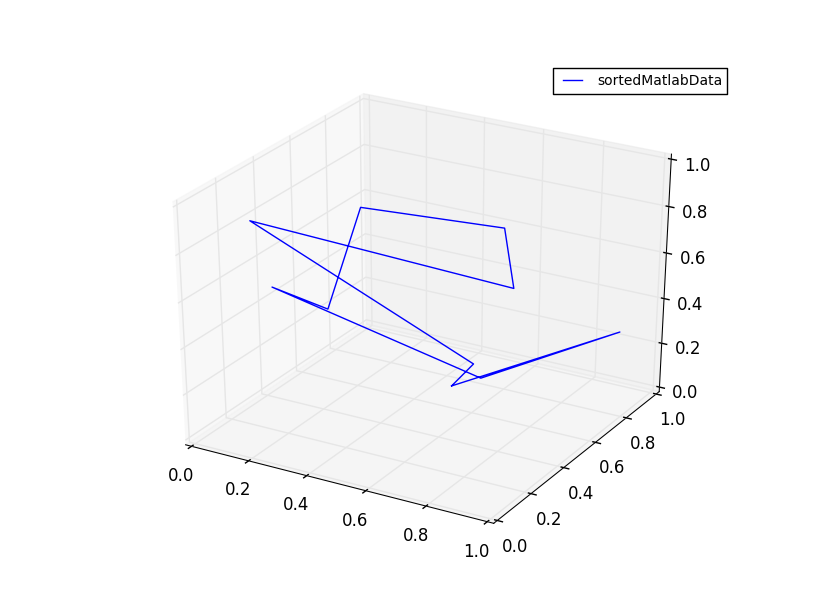
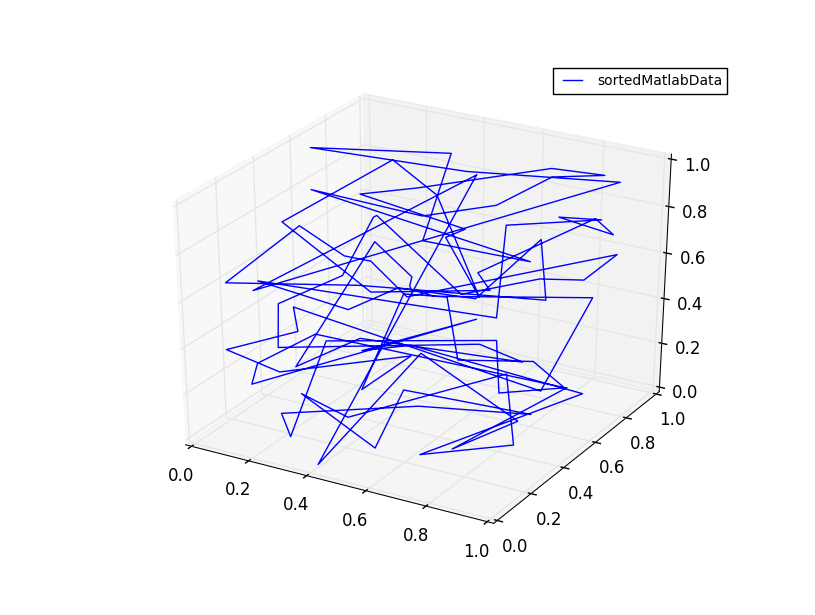
Exact TSP defines start point

Changed region(s): [[0.2761, 0.2163, 0.7669, 0.7415], [0.7362, 0.5252, 0.7669, 0.5561]]

diff --git a/greedyTSP.py b/greedyTSP.py
@@ -1,0 +1,123 @@
+################################################################################
+# src:github.com/dmishin/tsp-solver/blob/master/src/greedy_tsp.py
+# A simple algorithm for solving the Travelling Salesman Problem
+# Finds a suboptimal solution
+################################################################################
+
+def optimize_solution( distances, connections ):
+    """Tries to optimize solution, found by the greedy algorithm"""
+    N = len(connections)
+    path = restore_path( connections )
+    def ds(i,j): #distance between ith and jth points of path
+        return distances[path[i]][path[j]]
+    d_total = 0.0
+    optimizations = 0
+    for a in range(N-1):
+        b = a+1
+        for c in range( b+2, N-1):
+            d = c+1
+            delta_d = ds(a,b)+ds(c,d) -( ds(a,c)+ds(b,d))
+            if delta_d > 0:
+                d_total += delta_d
+                optimizations += 1
+                connections[path[a]].remove(path[b])
+                connections[path[a]].append(path[c])
+                connections[path[b]].remove(path[a])
+                connections[path[b]].append(path[d])
+
+                connections[path[c]].remove(path[d])
+                connections[path[c]].append(path[a])
+                connections[path[d]].remove(path[c])
+                connections[path[d]].append(path[b])
+                path[:] = restore_path( connections )
+    #print( "Done %d optimizations, total reduction %g"%(optimizations, d_total))
+        
+def restore_path( connections ):
+    """Takes array of connections and returns a path.
+    connections is array of lists with 1 or 2 elements.
+    These elements are indices of teh vertices, connected to this vertex
+    """
+    #there are 2 nodes with valency 1 - start and end. Get them.
+    start, end = [ idx for idx, conn in enumerate(connections)
+                   if len(conn)==1 ]
+    path = [start]
+    prev_point = None
+    cur_point = start
+    while True:
+        next_points = [pnt for pnt in connections[cur_point] 
+                       if pnt != prev_point ]
+        if not next_points: break
+        next_point = next_points[0]
+        path.append(next_point)
+        prev_point, cur_point = cur_point, next_point
+    return path
+
+def solve_tsp_numpy( distances, optim_steps=3 ):
+    """Given a distance matrix, finds a solution for the TSP problem.
+    Returns list of vertex indices.
+    Version that uses Numpy - consumes less memory and works faster."""
+    import numpy
+
+    N = len(distances)
+    for row in distances:
+        if (len(row) != N): raise(ValueError, "Matrix is not square")
+
+    #State of the TSP solver algorithm.
+    node_valency = numpy.zeros( N, dtype = 'i1' )
+    node_valency += 2 #Initially, each node has 2 sticky ends
+
+    #for each node, stores 1 or 2 connected nodes
+    connections = [[] for i in range(N)] 
+
+    def join_segments():
+        #segments of nodes. Initially, each segment contains only 1 node
+        segments = [ [i] for i in range(N) ]
+        def pairs_by_dist_np():
+            #print( "#### generating vertex pairs, numpy version")
+            pairs = numpy.zeros( (N*(N-1)/2, ), dtype=('f4, i2, i2') )
+
+            idx = 0
+            for i in range(N):
+                row_size = N-i-1
+                dist_i = distances[i]
+                pairs[idx:(idx+row_size)] = [ (dist_i[j], i, j)
+                                              for j in range(i+1, N) ]
+                idx += row_size
+            #print( "#### sorting pairs by distance")
+            pairs.sort(order=["f1"]) #sort by the first field
+            return pairs
+
+        def nearest_pairs_np( sorted_pairs ):
+            for d, i, j in sorted_pairs:
+                if node_valency[i] and \
+                   node_valency[j] and \
+                   not (segments[i] is segments[j]): 
+                    yield i, j
+
+        pairs_gen = iter( nearest_pairs_np(pairs_by_dist_np()) )
+        #print( "#### joining segments")
+        for itr in range(N-1):
+            i,j = next(pairs_gen)
+            node_valency[i] -= 1
+            node_valency[j] -= 1
+            connections[i].append(j)
+            connections[j].append(i)
+            #join the segments
+            seg_i = segments[i]
+            seg_j = segments[j]
+            if len(seg_j) > len(seg_i):
+                seg_i, seg_j = seg_j, seg_i
+                i, j = j, i
+            for node_idx in seg_j:
+                segments[node_idx] = seg_i
+            seg_i.extend(seg_j)
+    
+    join_segments()
+
+    for passn in range(optim_steps):
+        #print( "Optimization pass", passn)
+        optimize_solution( distances, connections )
+
+    path = restore_path( connections )
+    assert( len(path) == N )
+    return path

diff --git a/travellingPlane.py b/travellingPlane.py
@@ -1,29 +1,56 @@
 from shared import *
-from routeOptions import RouteOptions
-from itertools import permutations
+from greedyTSP import *
+import itertools
 import numpy
 
 class TravellingPlane():
 	"""travellingPlane is used to calculate the optimum ordering of points given the node locations"""
 	
-	def __init__(self, nodes):
-		"initiates the travelling plane with the node location by defining the nergy matrix"
+	def __init__(self, orderType):
+		"initiates the travelling plane with the node location by defining the energy matrix"
+
+		self.orderType = orderType
+
+	def setNodes(self,nodes,startNode=None):
+		"sets the position of the nodes that travelling plane routes around and define the energy matrix"
 
 		self.nodes = nodes
+		self.startNode=startNode
 		self.numberNodes = len(nodes)
-
 		self.setEnergyMatrix()
+
+	def getOrder(self,orderType=None):
+		"returns the order of the nodes using the required function"
+
+		if (orderType):
+			self.orderType = orderType
+
+		orderType = self.orderType
+
+		if (orderType == "exact"):
+			return self.exactOrder()
+		elif (orderType == "greedy"):
+			return self.greedyOrder()
+		else:
+			return None
 		
-	def getOrder(self):
+	def exactOrder(self):
 		"selects the shortest route given the routes provided"
 
 		numberNodes = self.numberNodes
-		nodeIndexs = range(0,numberNodes)
+		startNode = self.startNode
+		nodeIndexs = list(range(0,numberNodes))
 
 		bestRoute = nodeIndexs
 		bestCost = self.calculateRouteCost(nodeIndexs)
 
-		for i,route in enumerate(permutations(nodeIndexs)):
+		for i,route in enumerate(itertools.permutations(nodeIndexs)):
+
+			if (startNode != None):
+				if (route[0] == startNode):
+					pass
+				else:
+					continue
 
 			cost = self.calculateRouteCost(route)
 
@@ -31,8 +58,24 @@ class TravellingPlane():
 				bestRoute = route
 				bestCost = cost
 
-		print("{}".format(bestRoute))
+		print("Exact - {} - {}".format(bestRoute,bestCost))
+		return bestRoute
 
+	def greedyOrder(self):
+		"method to return the order given the greedyTSP"
+
+		energyMatrix = self.energyMatrix
+		startNode = self.startNode
+
+		if False:#(startNode != None):
+			print("greedy remove node {}".format(startNode))
+			energyMatrix = numpy.delete(energyMatrix, (startNode), axis=0)
+			energyMatrix = numpy.delete(energyMatrix,(startNode), axis=1)
+
+		bestRoute = solve_tsp_numpy(energyMatrix,3)
+		bestCost = self.calculateRouteCost(bestRoute)
+
+		print("Greedy - {} - {}".format(bestRoute,bestCost))
 		return bestRoute
 
 	def calculateRouteCost(self,route):

diff --git a/manageData.py b/manageData.py
@@ -1,8 +1,8 @@
 import os,sys,csv,subprocess,math,operator
 from shared import *
 
-MATLAB_FILEPATH = "matlab/update_data"
-MATLAB_OUTPUT_FILEPATH = "matlab/matlab_output.csv"
+MATLAB_FILEPATH = "update_data.m"
+MATLAB_OUTPUT_FILEPATH = "matlab_output.csv"
 
 class ManageData():
 	"""docstring for Data"""
@@ -12,13 +12,20 @@ class ManageData():
 		if update:
 			self.updateData()
 
-	def updateData(self):
+	def updateData(self,numberPoints=10):
 		"""function to run the required matlab script that updates all required data
 
 		assumes that the function to update matlab is stored in a folder called matlab of current directory
 		"""
 
-		filePath = MATLAB_FILEPATH
+		fileContents = ""
+		fileContents+="output = bestlh({},3,1,1);\n".format(numberPoints)
+		fileContents+="csvwrite('{}',output);".format(MATLAB_OUTPUT_FILEPATH)
+
+		with open("matlab/"+MATLAB_FILEPATH,"w") as openFile:
+			openFile.write(fileContents)
+
+		filePath = "matlab/"+MATLAB_FILEPATH
 		currentDirectory = os.getcwd()
 		matlabCommand = 'cd {}, run {}, exit'.format(currentDirectory,filePath)
 
@@ -26,6 +33,8 @@ class ManageData():
 
 	def loadData(self,filePath=MATLAB_OUTPUT_FILEPATH):
 		"function to load the data created by MATLAB"
+
+		filePath = "matlab/"+filePath
 
 		nodes = []
 		with open(filePath,"r") as csvFile:
@@ -41,22 +50,24 @@ class ManageData():
 		"""method to sort cylindrical coordinates using travelling salesman"""
 
 		nodes = self.nodes
-		order = sortFunction(nodes).getOrder()
+
+		sortFunction.setNodes(nodes,3)
+		order = sortFunction.getOrder()
 
 		sortedNodes = []
 		for index in order:
 			sortedNodes.append(nodes[index])
 
-		sortedNodes.append(nodes[order[0]])
+		#sortedNodes.append(nodes[order[0]])
 
 		self.nodes = sortedNodes
 
-	def plotData(self,filename):
+	def plotData(self,filename=""):
 		"method to plot the data"
 
 		nodes = self.nodes
 		plotData = changeArray(nodes)
-		plotFigure(filename,plotData)
+		plotFigure(filename,plotData,True)
 
 if __name__ == "__main__":
 	manageData = ManageData()

diff --git a/run.py b/run.py
@@ -4,19 +4,23 @@ from manageData import ManageData
 from travellingPlane import TravellingPlane
 
 manageData = ManageData()
+numberPoints = 4
+#manageData.updateData(numberPoints)
+name = "test_"+str(numberPoints)
 
-manageData.loadData("matlab/test.csv")
-manageData.plotData("origionalData")
-manageData.sortData(TravellingPlane)
-manageData.plotData("sortedData")
-
+sort = "greedy"
 manageData.loadData()
-manageData.plotData("origionalMatlabData")
-manageData.sortData(TravellingPlane)
-manageData.plotData("sortedMatlabData")
+manageData.sortData(TravellingPlane(sort))
+manageData.plotData(name+"_"+sort)
 
-manageData.updateData()
+sort = "exact"
 manageData.loadData()
-manageData.plotData("origionalMatlabData")
-manageData.sortData(TravellingPlane)
-manageData.plotData("sortedMatlabData")
+manageData.sortData(TravellingPlane(sort))
+manageData.plotData(name+"_"+sort)
+
+"""
+for name in ["tour_test_1","tour_test_2","matlab_output_10","matlab_output_100","matlab_output_200"]:
+	manageData.loadData("matlab/{}.csv".format(name))
+	manageData.sortData(TravellingPlane("greedy"))
+	manageData.plotData(name)
+"""

diff --git a/shared.py b/shared.py
@@ -76,7 +76,7 @@ def calculateEnergy(deltaX,deltaY,deltaZ):
 
     return max([0,totalEnergy])
 
-def plotFigure(filename,inputData):
+def plotFigure(filename,plotData,show=True):
     "method to plot the class data and if DEBUG = False save the figure"
 
     matplotlib.rcParams['legend.fontsize'] = 10
@@ -84,10 +84,13 @@ def plotFigure(filename,inputData):
     fig = pyplot.figure()
     ax = fig.gca(projection='3d')
 
-    x,y,z = inputData[0],inputData[1],inputData[2]
+    x,y,z = plotData[0],plotData[1],plotData[2]
     
     ax.plot(x, y, z, label=filename)
     ax.legend()
 
-    fig.show()
-    fig.savefig(filename+".png")
+    if show:
+        fig.show()
+    else:
+        fig.savefig(filename+".png")
+    

diff --git a/matlab/update_data.m b/matlab/update_data.m
@@ -1,3 +1,2 @@
-output = bestlh(10,3,1,1);
+output = bestlh(4,3,1,1);
 csvwrite('matlab_output.csv',output);
-%scatter3(output(:,1),output(:,2),output(:,3))
